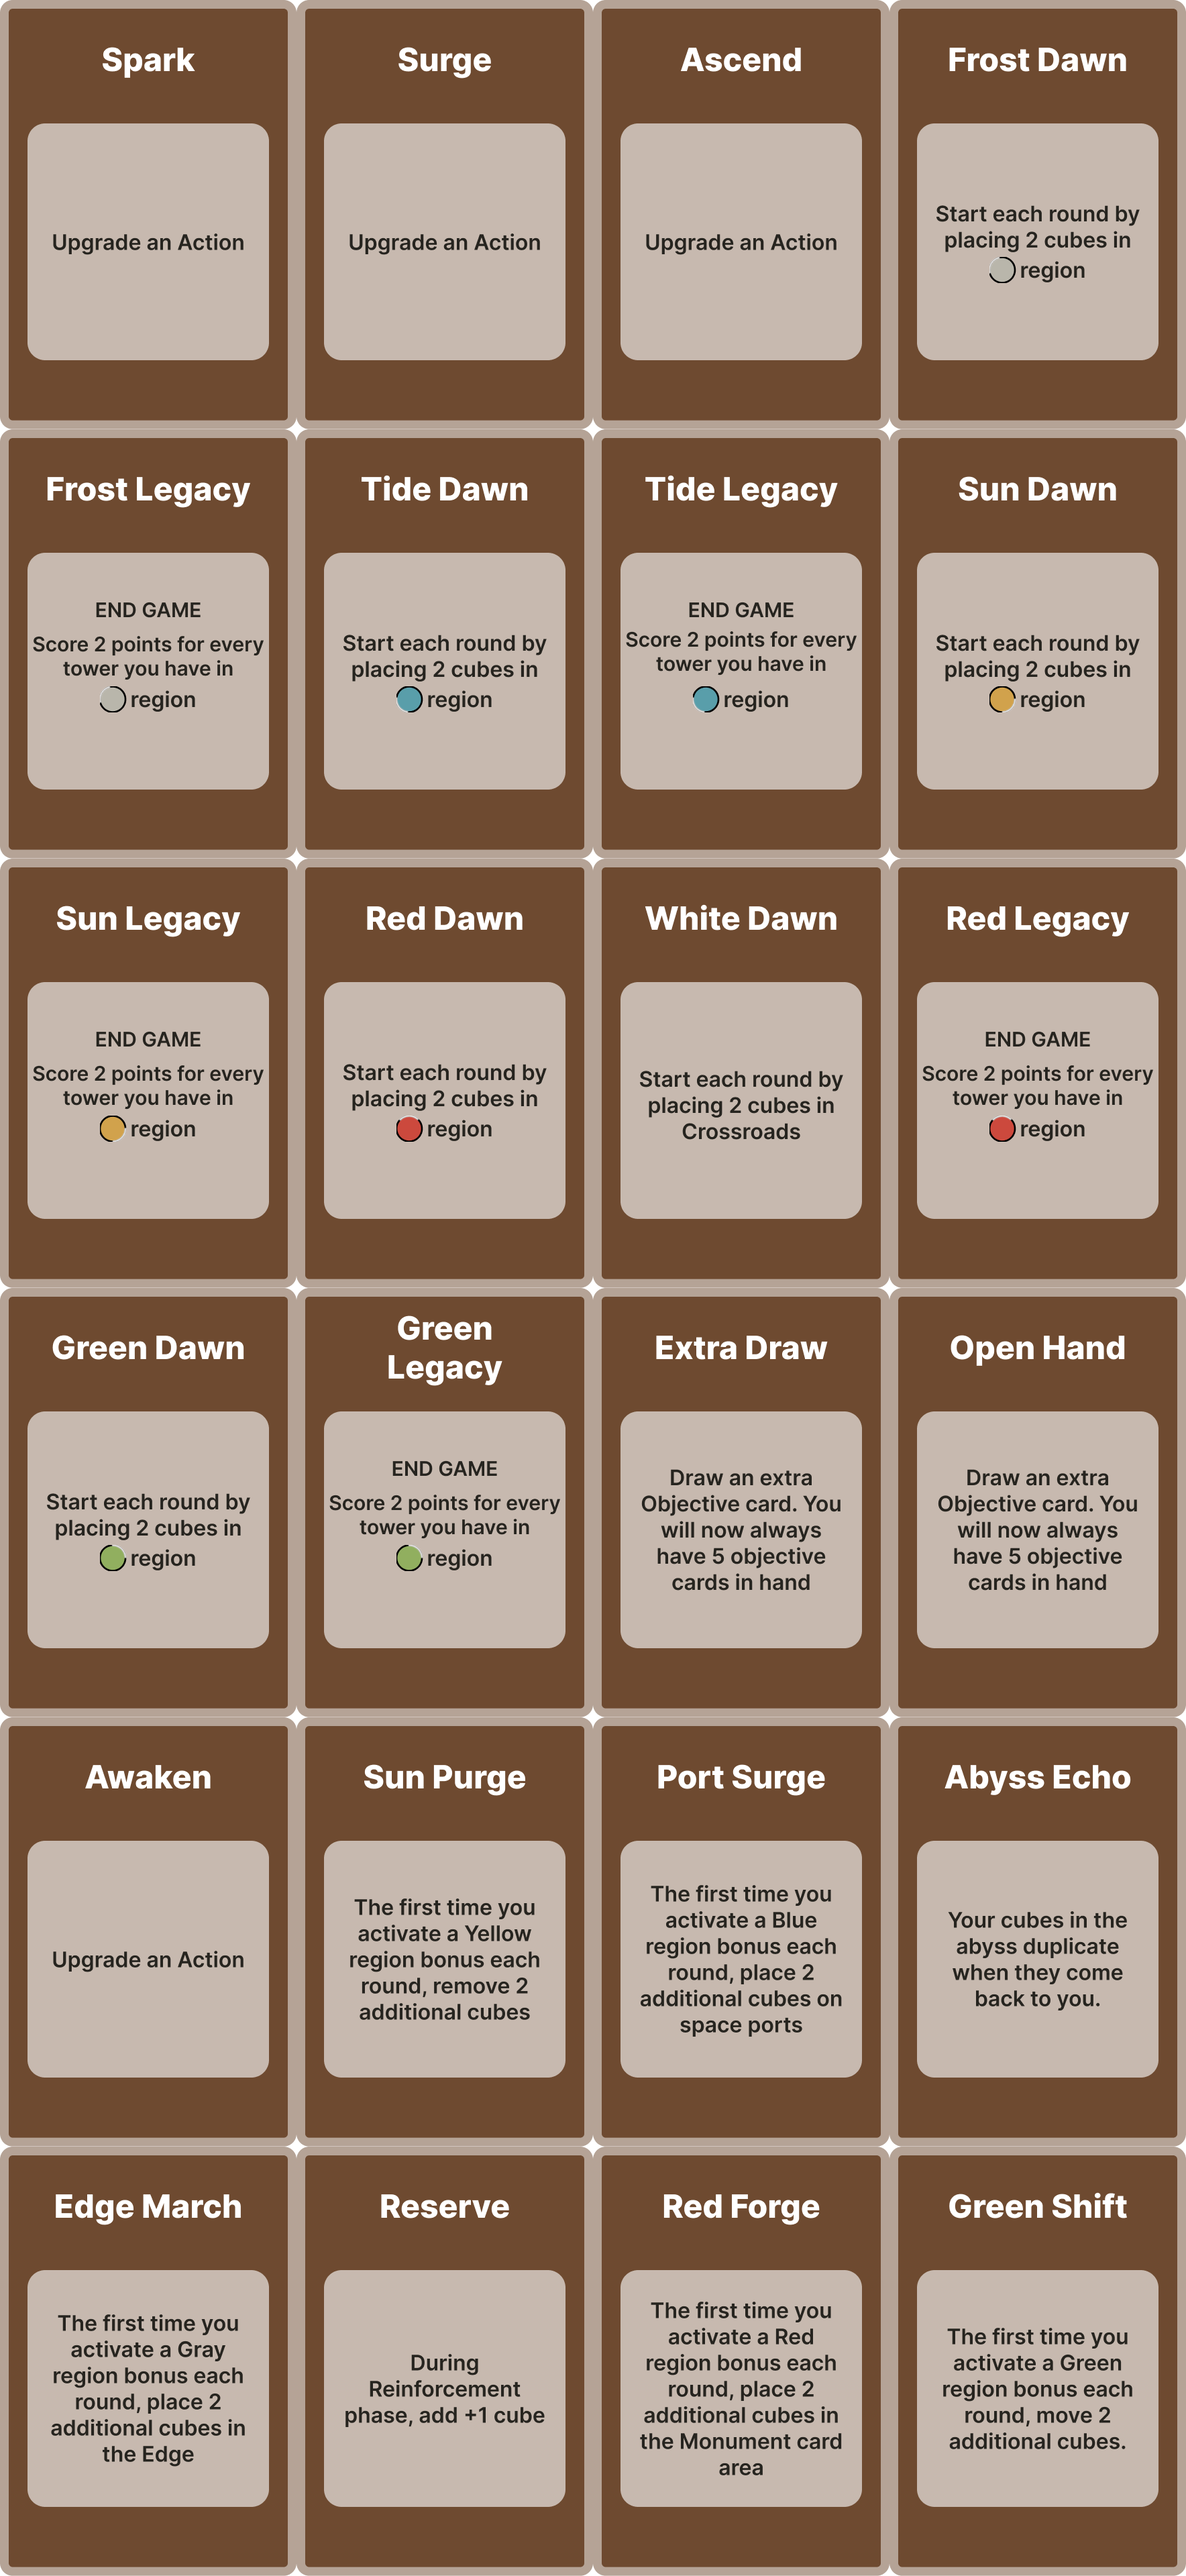
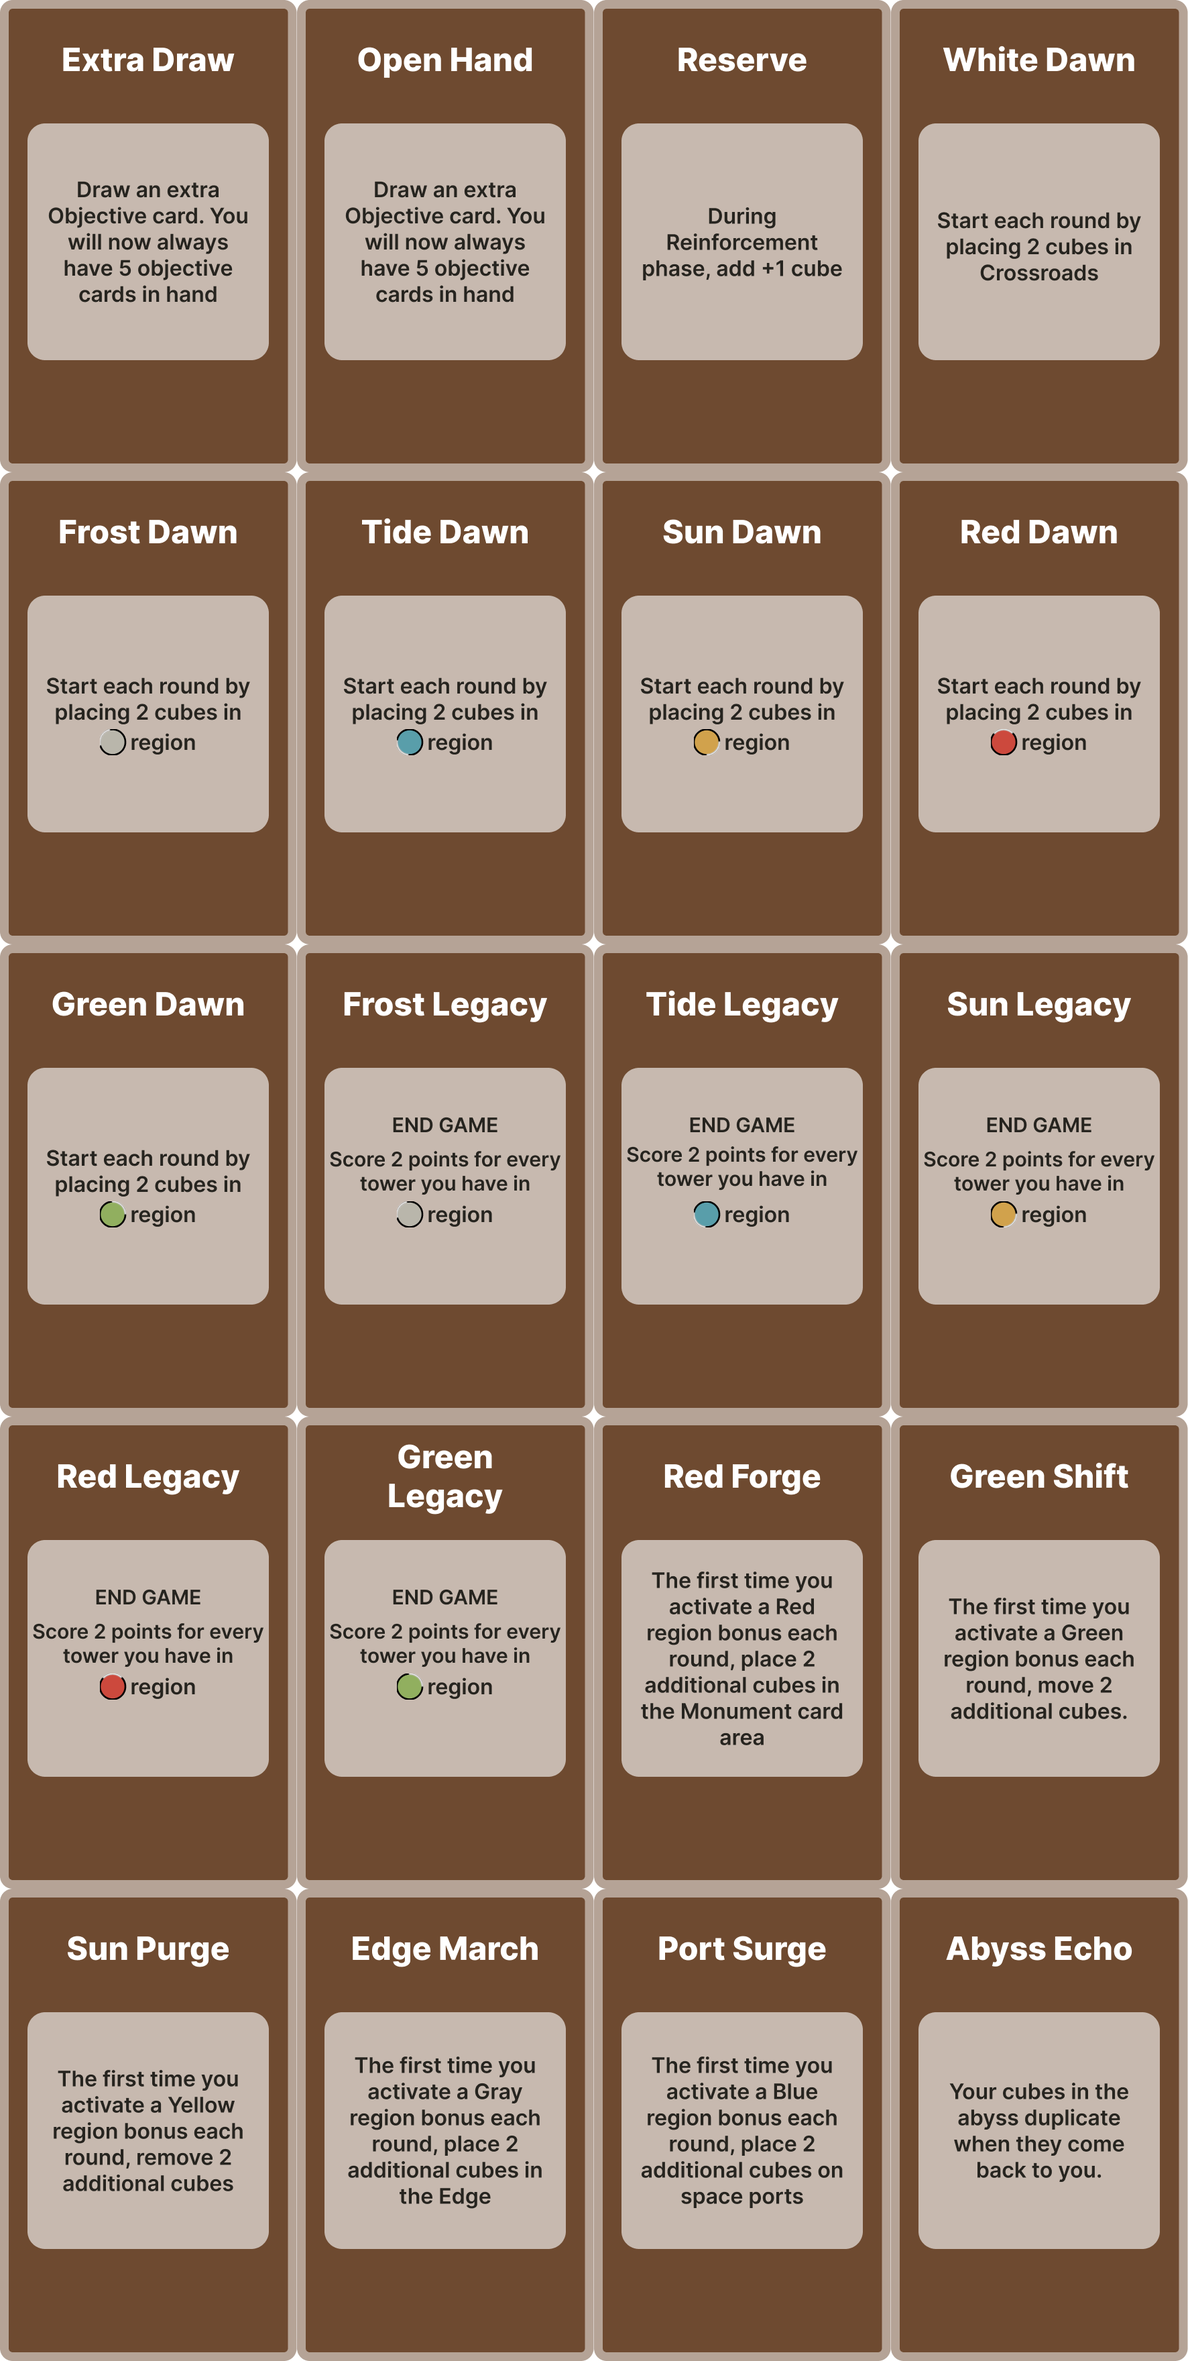
Publish new action tiles and 20-card Special deck

diff --git a/docs/catalog.js b/docs/catalog.js
@@ -1,1 +1,1 @@
-window.FRONTIER_CATALOG = {"source": "Figma Page 5 Game components slice 400:5081", "boards": [{"title": "Main board", "figmaId": "400:5197", "path": "assets/boards/board-main-e46ceed54f.png", "width": 4096, "height": 2960, "revision": "1447c66148"}], "cards": [{"title": "Action Guide", "figmaId": "400:3386", "path": "assets/cards/card-action-guide-6323e6fee4.png", "width": 506, "height": 729, "revision": "32b6b7b4d4"}, {"title": "Region Bonus Guide", "figmaId": "400:3436", "path": "assets/cards/card-region-bonus-guide-800eb32bd9.png", "width": 759, "height": 1098, "revision": "9f711bb71c"}], "references": [], "decks": [{"title": "Monuments", "figmaId": "400:4331", "count": 30, "columns": 6, "rows": 5, "cardWidth": 442, "cardHeight": 640, "face": {"path": "assets/decks/monuments-faces-d44fdccb0e.png", "width": 2652, "height": 3200, "revision": "52d93c3942"}, "back": {"path": "assets/decks/monuments-back-a65fba90e2.png", "width": 442, "height": 640, "revision": "abfd3f1891"}}, {"title": "Objectives", "figmaId": "400:3464", "count": 18, "columns": 6, "rows": 3, "cardWidth": 388, "cardHeight": 519, "face": {"path": "assets/decks/objectives-faces-4d91a50427.png", "width": 2328, "height": 1557, "revision": "a37ecd085f"}, "back": {"path": "assets/decks/objectives-back-c08c78cc67.png", "width": 388, "height": 519, "revision": "cc7db17312"}}, {"title": "Specials", "figmaId": "400:4909", "count": 24, "columns": 4, "rows": 6, "cardWidth": 442, "cardHeight": 640, "face": {"path": "assets/decks/specials-faces-adc1172863.png", "width": 1768, "height": 3840, "revision": "a229581d1b"}, "back": {"path": "assets/decks/specials-back-0b946676e3.png", "width": 442, "height": 640, "revision": "716e286590"}}], "tokens": [{"title": "Build 4", "figmaId": "400:3302", "path": "assets/tokens/action-tile-1-fb100c9aa5.png", "width": 426, "height": 426, "revision": "989ae47648"}, {"title": "Region bonus", "figmaId": "400:3383", "path": "assets/tokens/action-tile-2-7107aa55c8.png", "width": 426, "height": 426, "revision": "649b646ee8"}, {"title": "Build 3", "figmaId": "400:3254", "path": "assets/tokens/action-tile-3.png", "width": 427, "height": 427, "revision": "a012cf7af2"}, {"title": "Build 4, four regions", "figmaId": "400:3351", "path": "assets/tokens/action-tile-4-21af0fce2d.png", "width": 427, "height": 427, "revision": "55e88bb6be"}, {"title": "+1", "figmaId": "400:3374", "path": "assets/tokens/action-tile-5-39a0ec00fc.png", "width": 426, "height": 426, "revision": "35563c5885"}, {"title": "+2", "figmaId": "400:3377", "path": "assets/tokens/action-tile-6-813e8438d5.png", "width": 426, "height": 426, "revision": "d2a8f29a2f"}, {"title": "Build 2, four regions", "figmaId": "400:3232", "path": "assets/tokens/action-tile-7-7d3d7a7703.png", "width": 427, "height": 427, "revision": "a1f7a74b1d"}, {"title": "+3", "figmaId": "400:3380", "path": "assets/tokens/action-tile-8.png", "width": 426, "height": 426, "revision": "e5071bf25c"}, {"title": "Move", "figmaId": "400:3276", "path": "assets/tokens/action-tile-9.png", "width": 427, "height": 427, "revision": "832b4116c5"}, {"title": "Build 6", "figmaId": "400:3324", "path": "assets/tokens/action-tile-10.png", "width": 426, "height": 426, "revision": "7241052671"}]};
+window.FRONTIER_CATALOG = {"source": "Figma Page 5 Game components slice 400:5081", "boards": [{"title": "Main board", "figmaId": "400:5197", "path": "assets/boards/board-main-e46ceed54f.png", "width": 4096, "height": 2960, "revision": "1447c66148"}], "cards": [{"title": "Action Guide", "figmaId": "400:3386", "path": "assets/cards/card-action-guide-6323e6fee4.png", "width": 506, "height": 729, "revision": "32b6b7b4d4"}, {"title": "Region Bonus Guide", "figmaId": "400:3436", "path": "assets/cards/card-region-bonus-guide-800eb32bd9.png", "width": 759, "height": 1098, "revision": "9f711bb71c"}], "references": [], "decks": [{"title": "Monuments", "figmaId": "400:4331", "count": 30, "columns": 6, "rows": 5, "cardWidth": 442, "cardHeight": 640, "face": {"path": "assets/decks/monuments-faces-d44fdccb0e.png", "width": 2652, "height": 3200, "revision": "52d93c3942"}, "back": {"path": "assets/decks/monuments-back-a65fba90e2.png", "width": 442, "height": 640, "revision": "abfd3f1891"}}, {"title": "Objectives", "figmaId": "400:3464", "count": 18, "columns": 6, "rows": 3, "cardWidth": 388, "cardHeight": 519, "face": {"path": "assets/decks/objectives-faces-4d91a50427.png", "width": 2328, "height": 1557, "revision": "a37ecd085f"}, "back": {"path": "assets/decks/objectives-back-c08c78cc67.png", "width": 388, "height": 519, "revision": "cc7db17312"}}, {"title": "Specials", "figmaId": "400:4909", "count": 20, "columns": 4, "rows": 5, "cardWidth": 443, "cardHeight": 704, "face": {"path": "assets/decks/specials-faces-adc1172863.png", "width": 1772, "height": 3520, "revision": "66a19c16c8"}, "back": {"path": "assets/decks/specials-back-0b946676e3.png", "width": 443, "height": 704, "revision": "a348395311"}}], "tokens": [{"title": "Build 4", "figmaId": "400:3302", "path": "assets/tokens/action-tile-1-fb100c9aa5.png", "width": 426, "height": 426, "revision": "989ae47648"}, {"title": "Region bonus", "figmaId": "400:3383", "path": "assets/tokens/action-tile-2-7107aa55c8.png", "width": 426, "height": 426, "revision": "649b646ee8"}, {"title": "Build 3", "figmaId": "400:3254", "path": "assets/tokens/action-tile-3.png", "width": 427, "height": 427, "revision": "c6c06dbd7d"}, {"title": "Build 4, four regions", "figmaId": "400:3351", "path": "assets/tokens/action-tile-4-21af0fce2d.png", "width": 427, "height": 427, "revision": "55e88bb6be"}, {"title": "+1", "figmaId": "400:3374", "path": "assets/tokens/action-tile-5-39a0ec00fc.png", "width": 426, "height": 426, "revision": "35563c5885"}, {"title": "+2", "figmaId": "400:3377", "path": "assets/tokens/action-tile-6-813e8438d5.png", "width": 426, "height": 426, "revision": "d2a8f29a2f"}, {"title": "Build 2, four regions", "figmaId": "400:3232", "path": "assets/tokens/action-tile-7-7d3d7a7703.png", "width": 427, "height": 427, "revision": "a1f7a74b1d"}, {"title": "+3", "figmaId": "400:3380", "path": "assets/tokens/action-tile-8.png", "width": 426, "height": 426, "revision": "e5071bf25c"}, {"title": "Move", "figmaId": "400:3276", "path": "assets/tokens/action-tile-9.png", "width": 427, "height": 427, "revision": "3d2c6d9614"}, {"title": "Build 6", "figmaId": "400:3324", "path": "assets/tokens/action-tile-10.png", "width": 426, "height": 426, "revision": "7241052671"}, {"title": "Build 3, gray", "figmaId": "526:147", "path": "assets/tokens/action-tile-11.png", "width": 427, "height": 427, "revision": "2529bdb0a3"}, {"title": "Build 3, red", "figmaId": "526:169", "path": "assets/tokens/action-tile-12.png", "width": 427, "height": 427, "revision": "311d42f308"}, {"title": "Move, blue and yellow", "figmaId": "526:191", "path": "assets/tokens/action-tile-13.png", "width": 427, "height": 427, "revision": "1b44f97706"}, {"title": "Move, yellow and red", "figmaId": "526:217", "path": "assets/tokens/action-tile-14.png", "width": 427, "height": 427, "revision": "d6157b7006"}]};

diff --git a/docs/index.html b/docs/index.html
@@ -6,7 +6,7 @@
   <meta name="theme-color" content="#12171c">
   <title>Frontier · Tabletop Simulator assets</title>
   <link rel="stylesheet" href="styles.css?v=3">
-  <script defer src="catalog.js?v=754c804ed8"></script>
+  <script defer src="catalog.js?v=f2cf8f029e"></script>
   <script defer src="app.js?v=7"></script>
 </head>
 <body>

diff --git a/scripts/build_assets.py b/scripts/build_assets.py
@@ -186,8 +186,8 @@ def main() -> None:
          (442, 640), 6, 5, "back-monument", 0),
         ("objectives", "objectives", "Objectives", "400:3464", 18, 6, (196, 140), (420, 551),
          (388, 519), 6, 3, "back-objective", 0),
-        ("specials", "specials", "Specials", "400:4909", 24, 4, (0, 0), (482, 680),
-         (442, 640), 4, 6, "back-special", 0),
+        ("specials", "specials", "Specials", "400:4909", 20, 4, (0, 0), (492, 734),
+         (443, 704), 4, 5, "back-special", 0),
     ]
     for (slug, asset_slug, title, figma_id, count, source_columns, origin, stride,
          card_size, columns, rows, back_slug, start) in deck_specs:
@@ -215,6 +215,10 @@ def main() -> None:
         ("action-tile-8", "+3", "400:3380", "page5-tile-3380"),
         ("action-tile-9", "Move", "400:3276", "page5-tile-3276"),
         ("action-tile-10", "Build 6", "400:3324", "page5-tile-3324"),
+        ("action-tile-11", "Build 3, gray", "526:147", "page5-tile-147"),
+        ("action-tile-12", "Build 3, red", "526:169", "page5-tile-169"),
+        ("action-tile-13", "Move, blue and yellow", "526:191", "page5-tile-191"),
+        ("action-tile-14", "Move, yellow and red", "526:217", "page5-tile-217"),
     ]
     for slug, title, figma_id, source in action_tiles:
         catalog["tokens"].append({"title": title,

diff --git a/README.md b/README.md
@@ -8,9 +8,9 @@ Current export:
 | --- | ---: | ---: | ---: | --- |
 | Monuments | 30 | 6 | 5 | Monument card back |
 | Objectives | 18 | 6 | 3 | Objective card back |
-| Specials | 24 | 4 | 6 | Special Card back |
+| Specials | 20 | 4 | 5 | Special Card back |
 
-There is one main board, two standalone guide cards, and ten action tiles. Each deck sheet has no spacing between card bounds. Set **Back is Hidden** on when importing a deck into TTS.
+There is one main board, two standalone guide cards, and fourteen action tiles. Each deck sheet has no spacing between card bounds. Set **Back is Hidden** on when importing a deck into TTS.
 
 ## Refreshing the exports
 
@@ -20,4 +20,4 @@ There is one main board, two standalone guide cards, and ten action tiles. Each 
 
 The builder keeps every **active** PNG URL stable. Before replacing an image, it saves its old bytes under `archive/assets/<category>/<slug>/<content-hash>.png`. All historical aliases for an active asset receive the same new image. Images absent from the current Figma slice are archived and removed from the site. Commit the archive and site together so GitHub Pages deploys them from one Git commit. GitHub Pages and TTS may cache images, so an open TTS game may need to be reloaded after deployment.
 
-The Special back in Figma is 388 × 519 while its face cards are 442 × 640; the builder scales that back to 442 × 640 for TTS.
+The Special back in Figma is 388 × 519 while its face cards are 443 × 704; the builder scales that back to 443 × 704 for TTS.
